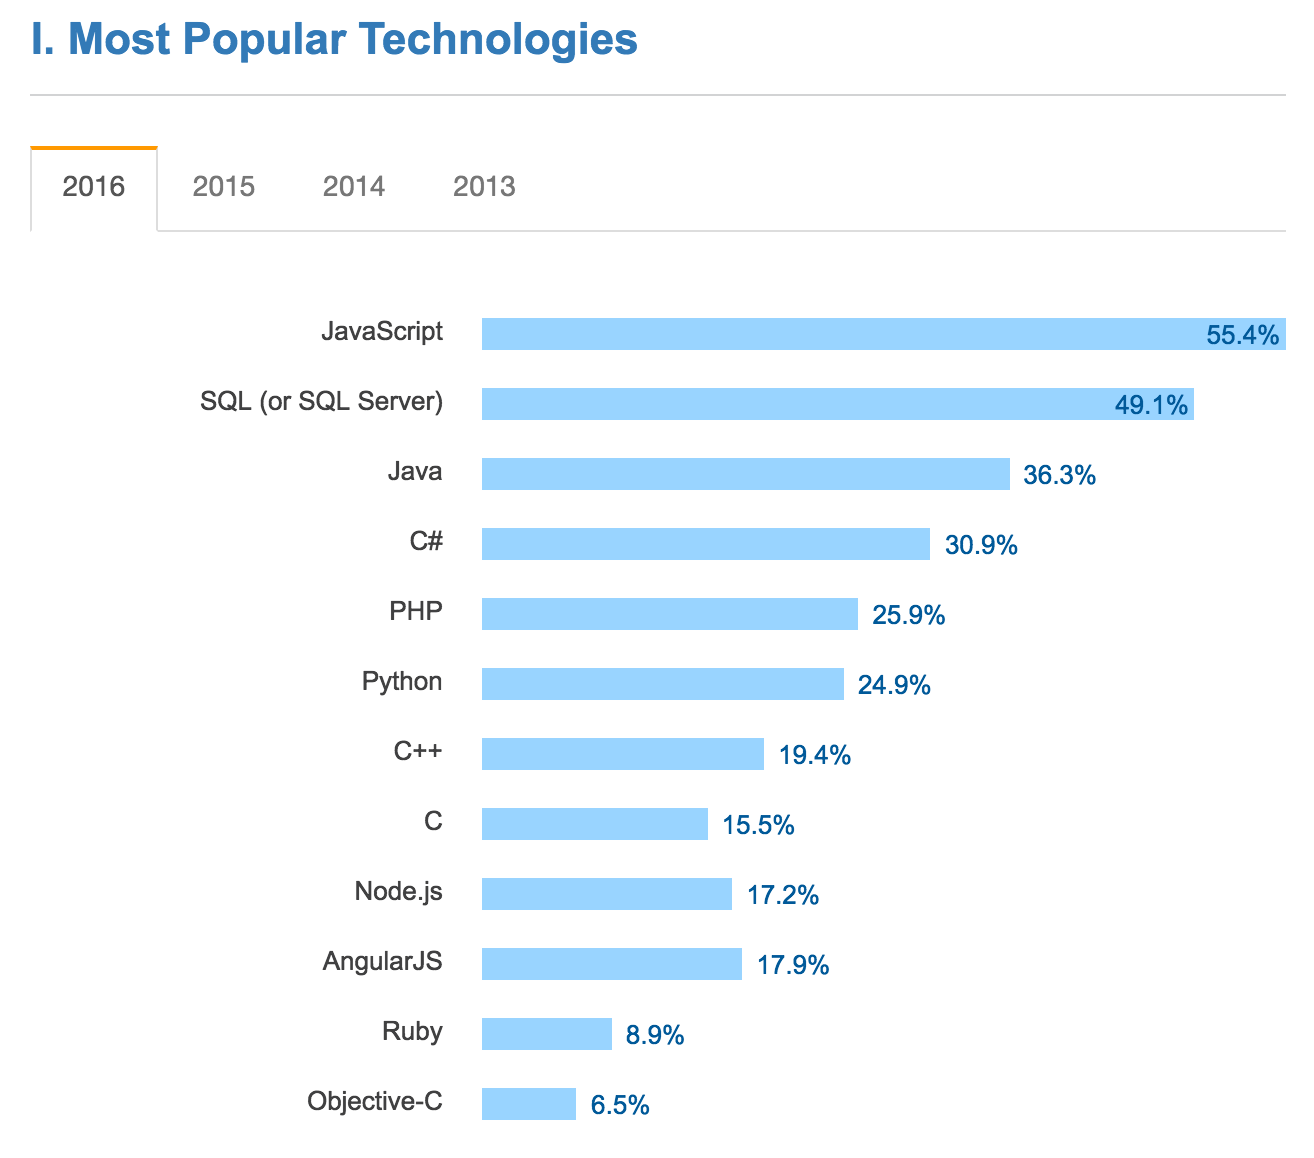
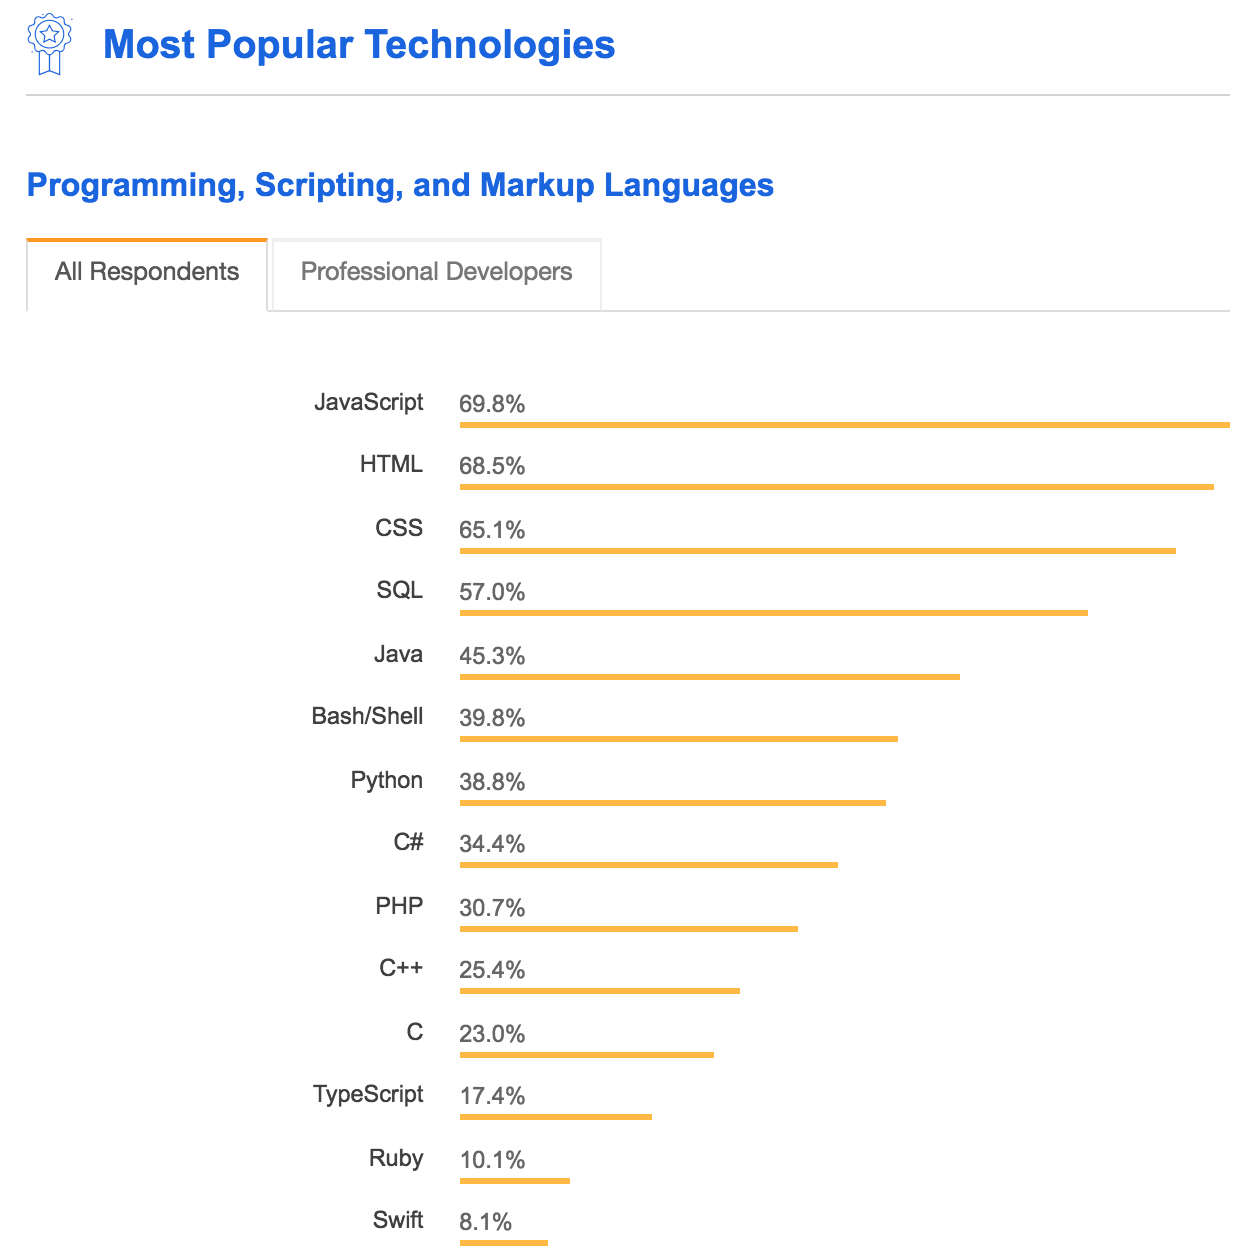
update

Changed region(s): [[0.0, 0.1244, 0.9984, 1.0], [0.0, 0.0, 0.9672, 0.0933]]

diff --git a/_posts/2016-05-02-js-introduction.md b/_posts/2016-05-02-js-introduction.md
@@ -21,35 +21,39 @@ Netscape Navigator 2
 
 * 초창기 Javascript는 웹페이지 제작에 있어서 보조적인 기능을 수행하기 위해 한정적인 용도로 주로 사용되었다. 이 시기에 대부분 로직은 주로 웹서버에서 실행되었고 브라우저(클라이언트)는 서버로 부터 전달받은 HTML과 CSS를 렌더링하는 수준이었다. 하지만 웹이 더욱 발전하면서 과거 웹서버에서 수행되던 많은 역할들이 클라이언트로 이동하였는데 이것은 자바스크립트의 발전 덕분이다. 특히 [jQuery](https://jquery.com/)의 등장으로 다소 번거롭고 논란이 있던 DOM(Document Object Model)를 보다 쉽게 제어할 수 있게 되었다. 이는 정적인 웹페이지에 역동성을 부여하기 위한 목적으로 Javascript의 위상을 더욱 높이는 계기가 되었다.
 
-* Javascript는 C-family languag로 C, Java에서 많은 문법을 차용했으며 Awk, Perl, Python으로부터도 영향을 받았다.
+<!-- * Javascript는 C-family language로 C, Java에서 많은 문법을 차용했으며 Awk, Perl, Python으로부터도 영향을 받았다. -->
 
-* Javascript는 [인터프리터](https://ko.wikipedia.org/wiki/%EC%9D%B8%ED%84%B0%ED%94%84%EB%A6%AC%ED%84%B0) 언어(Interpreter language)이기 때문에 compile이 필요없고 HTML파일 안에 직접 기술이 가능하다.
+<!-- * Javascript는 [인터프리터](https://ko.wikipedia.org/wiki/%EC%9D%B8%ED%84%B0%ED%94%84%EB%A6%AC%ED%84%B0) 언어(Interpreter language)이기 때문에 compile이 필요없고 HTML파일 안에 직접 기술이 가능하다. -->
+<!--
+=> https://trustyoo86.github.io/node.js/2017/11/17/javascript-v8-change-history.html
+-->
+* JavaScript는 [멀티-패러다임 언어](https://ko.wikipedia.org/wiki/다중_패러다임_프로그래밍_언어)로 명령형(imperative), 함수형(functional), 프로토타입 기반(prototype-based) 객체지향 언어다. 비록 다른 객체지향 언어들과의 차이점에 대한 논쟁들이 있긴 하지만, JavaScript는 강력한 객체지향 프로그래밍 능력을 지니고 있다. 간혹 클래스(ES6에서 새롭게 도입되었다)가 없어서 객체지향 언어가 아니라고 오해하는 경우도 있지만 JavaScript는 <strong>프로토타입 기반의 객체지향 언어</strong>이다. ([가장 많은 오해를 받는 언어이기도 하다](http://javascript.crockford.com/javascript.html))
 
-* JavaScript는 멀티-패러다임 언어로 명령형 (imperative), 함수형 (functional), 프로토타입 기반 (prototype-based) 객체지향형 언어다. 비록 다른 객체지향적인 언어들과의 차이점에 대한 논쟁들이 있긴 하지만, JavaScript는 강력한 객체지향 프로그래밍 능력들을 지니고 있다. 간혹 클래스(ES6에서 새롭게 도입되었다)가 없어서 객체지향이 아니라고 생각하는 사람들도 있으나 <strong>프로토타입 기반의 객체지향 언어</strong>이다. ([가장 많은 오해를 받는 언어이기도 하다](http://javascript.crockford.com/javascript.html))
+* 구글의 [Chrome V8 JavaScript 엔진](https://developers.google.com/v8/)으로 빌드된 JavaScript [런타임](https://ko.wikipedia.org/wiki/%EB%9F%B0%ED%83%80%EC%9E%84) 환경(Runtime Environment)인 <strong>Node.js</strong>의 등장으로 JavaScript는 웹 브라우저를 벗어나 서버 사이드 애플리케이션 개발에서도 사용되는 Full-stack 개발 언어가 되었다. 웹 브라우저에서만 동작하는 반쪽짜리 언어 취급을 받던 JavaScript는 Front-end 영역은 물론 Back-end 영역까지 아우르는 웹 프로그래밍 언어의 표준으로 자리잡고 있다.
 
-* 구글의 [Chrome V8 JavaScript 엔진](https://developers.google.com/v8/)으로 빌드된 JavaScript [런타임](https://ko.wikipedia.org/wiki/%EB%9F%B0%ED%83%80%EC%9E%84) 환경(Runtime Environment)인 <strong>Node.js</strong>의 등장으로 JavaScript는 웹 브라우저를 벗어나 서버 사이드 애플리케이션 개발에서도 사용되는 Full stack 개발 언어가 되었다. 웹 브라우저에서만 동작하는 반쪽짜리 언어 취급을 받던 JavaScript는 Front-end 영역은 물론 Back-end 영역까지 아우르는 웹 프로그래밍 언어의 표준으로 자리잡고 있다.
+* Javascript는 모바일 웹/앱 개발 분야에서도 [크로스 플랫폼](https://ko.wikipedia.org/wiki/크로스_플랫폼)을 위한 가장 중요한 언어로 주목받고 있다. 웹은 물론 모바일 하이브리드 앱([PhoneGap](http://phonegap.com), [Sencha Touch](https://www.sencha.com/products/touch), [Ionic](https://ionicframework.com)), 서버 사이드([NodeJS](https://nodejs.org/)), Desktop([Electron](https://electron.atom.io/), [AppJS](http://appjs.com/)), 로봇 제어([Cylon.js](https://cylonjs.com/), [NodeBots](http://nodebots.io/)) 언어로서 세계에서 가장 인기있는 언어이다.
 
-* Javascript는 [크로스 플랫폼](https://ko.wikipedia.org/wiki/%ED%81%AC%EB%A1%9C%EC%8A%A4_%ED%94%8C%EB%9E%AB%ED%8F%BC)을 위한 모바일 웹/앱 개발 분야에서도 가장 중요한 언어로 주목받고 있다. 웹은 물론 모바일 하이브리드 앱([PhoneGap](http://phonegap.com), [Sencha Touch](https://www.sencha.com/products/touch), [Ionic](https://ionicframework.com)), 서버 사이드([NodeJS](https://nodejs.org/)), Desktop([Electron](https://electron.atom.io/), [AppJS](http://appjs.com/)), 로봇 제어([Cylon.js](https://cylonjs.com/), [NodeBots](http://nodebots.io/)) 언어로서 세계에서 가장 인기있는 언어이다.
-
-* SPA(Single Page Application) 웹 앱이 대중화되면서 [Angular](https://angular.io/), [React](https://facebook.github.io/react/), [Vue.js](https://vuejs.org/) 등 다양한 SPA Framework/Library 또한 많은 사용층을 확보하고 있다.
+* SPA(Single Page Application)가 대중화되면서 [Angular](https://angular.io/), [React](https://facebook.github.io/react/), [Vue.js](https://vuejs.org/) 등 다양한 SPA Framework/Library 또한 많은 사용층을 확보하고 있다.
 
 ![Most Popular Technologies](/img/most-Popular-technologies.png)
 
-[Stackoverflow Developer Survey Results 2016](http://stackoverflow.com/research/developer-survey-2016#technology)
+[Stackoverflow Developer Survey Results 2018](https://insights.stackoverflow.com/survey/2018#most-popular-technologies)
 {: .desc-img}
 
-![rank_of_top_language_github](/img/rank_of_top_language_github.png)
+<!-- ![rank_of_top_language_github](/img/rank_of_top_language_github.png)
 
 The rank of top languages on Github.com over time
 {: .desc-img}
 
-* 월마트, 이베이, 페이팔, 우버, 야후, 그루폰 등 거대 글로벌 기업들의 Javascript 환경으로 전환함에 따라 이와 같은 추세는 앞으로 더욱 가속될 전망이다. 빠르고 쉽게 서비스를 구축할 수 있는 장점을 가지고 있어 많은 Start-up기업 또한 Javascript 환경을 사용하고 있다.
+* 월마트, 이베이, 페이팔, 우버, 야후, 그루폰 등 거대 글로벌 기업들의 Javascript 환경으로 전환함에 따라 이와 같은 추세는 앞으로 더욱 가속될 전망이다. 빠르고 쉽게 서비스를 구축할 수 있는 장점을 가지고 있어 많은 Start-up기업 또한 Javascript 환경을 사용하고 있다. -->
 
 # 2. History
 
-JavaScript는 1995년 Brendan Eich(Nescape)이 Navigator 2를 위하여 웹페이지에 포함되는 스크립트 언어로서 개발되었으며 LiveScript로 명명되었다. 이후 Microsoft는 IE 3.0에서 동작하는 JScript를 만들었고 Nescape는 Ecma International에 JavaScript의 표준화를 요청하였다.
+JavaScript는 1995년 Brendan Eich(Nescape)이 Navigator 2를 위하여 웹페이지에 포함되는 스크립트 언어로서 개발되었으며 "Mocha"로 명명되었다. 그해 9월 "LiveScript"로 이름이 변경되었고, 10월 "JavaScript"로 최종 명명되었다.
 
-1997년 7월 ECMA-262라 불리는 명세가 완성되었고 상표권의 문제로 JavaScript는 <strong>ECMAScript</strong>로 명명되었다. 이후 1999년 ECMAScript 3(ES3)이 공개되었고 10년만인 2009년 출시된 ECMAScript 5(ES5)는 HTML5와 함께 출현한 표준안이다.
+이후 Microsoft는 IE 3.0에서 동작하는 "JScript"를 만들었고 Nescape는 [Ecma International](https://ko.wikipedia.org/wiki/Ecma_인터내셔널)에 JavaScript의 표준화를 요청하였다.
+
+1997년 7월 ECMA-262라 불리는 명세(spec)가 완성되었고 상표권의 문제로 JavaScript는 <strong>ECMAScript</strong>로 명명되었다. 이후 1999년 ECMAScript 3(ES3)이 공개되었고 10년만인 2009년 출시된 ECMAScript 5(ES5)는 HTML5와 함께 출현한 표준안이다.
 
 2015년 ECMAScript 6(ES6)가 공개되었고 [let/const keyword](./es6-block-scope), [module system](./es6-module), [Arrow Function](./es6-arrow-function), [class](./es6-class) 등이 추가되었다. ES5에서 ES6로의 버전업은 기능 상의 큰 변화가 있었고 이후의 버전업은 작은 기능의 추가 레벨로 매년 공개할 것으로 예고되었다.
 
@@ -69,7 +73,7 @@ ECMAScript 6 : [ECMA-262 6th edition](http://www.ecma-international.org/ecma-262
 
 # 3. Browsers Support
 
-2017년 1월, IE를 제외한 대부분의 모던 브라우저는 ES6를 지원하고 있지만 100%는 아니다. 그리고 Node.js의 경우 v4부터 지원을 시작하였다.
+IE를 제외한 대부분의 모던 브라우저는 ES6를 지원하고 있지만 100% 지원하고 있지는 않다. 그리고 Node.js의 경우 v4부터 지원을 시작하였다.
 
 ![kangax](/img/kangax.png)
 {: .w-650}
@@ -81,8 +85,10 @@ ECMAScript 6 : [ECMA-262 6th edition](http://www.ecma-international.org/ecma-262
 
 # Reference
 
+* [javascript v8 엔진의 변경 내용 및 Node.js 적용](https://trustyoo86.github.io/node.js/2017/11/17/javascript-v8-change-history.html)
+
+* [자바스크립트는 어떻게 작동하는가: V8 엔진의 내부 + 최적화된 코드를 작성을 위한 다섯 가지 팁](https://engineering.huiseoul.com/%EC%9E%90%EB%B0%94%EC%8A%A4%ED%81%AC%EB%A6%BD%ED%8A%B8%EB%8A%94-%EC%96%B4%EB%96%BB%EA%B2%8C-%EC%9E%91%EB%8F%99%ED%95%98%EB%8A%94%EA%B0%80-v8-%EC%97%94%EC%A7%84%EC%9D%98-%EB%82%B4%EB%B6%80-%EC%B5%9C%EC%A0%81%ED%99%94%EB%90%9C-%EC%BD%94%EB%93%9C%EB%A5%BC-%EC%9E%91%EC%84%B1%EC%9D%84-%EC%9C%84%ED%95%9C-%EB%8B%A4%EC%84%AF-%EA%B0%80%EC%A7%80-%ED%8C%81-6c6f9832c1d9)
+
 * [ECMAScript Version](https://developer.mozilla.org/ko/docs/Web/JavaScript/%EC%96%B8%EC%96%B4_%EB%A6%AC%EC%86%8C%EC%8A%A4)
 
 * [ECMAScript 6 New Features: Overview & Comparison](http://es6-features.org)
-
-* [Web development roadmap 2017](https://github.com/kamranahmedse/developer-roadmap)

diff --git a/_posts/2016-05-01-coding.md b/_posts/2016-05-01-coding.md
@@ -97,4 +97,8 @@ int x = "five"; // warning: incompatible pointer to integer conversion initializ
 
 > ***프로그래밍은 요구사항의 집합을 분석하여 적절한 자료구조와 함수의 집합으로 변환한 후 그 흐름을 제어하는 것이다.***
 
+# Reference
+
 * [Why Learning to Code is So Damn Hard](https://www.vikingcodeschool.com/posts/why-learning-to-code-is-so-damn-hard)
+
+* [Web development roadmap 2018](https://github.com/kamranahmedse/developer-roadmap)
